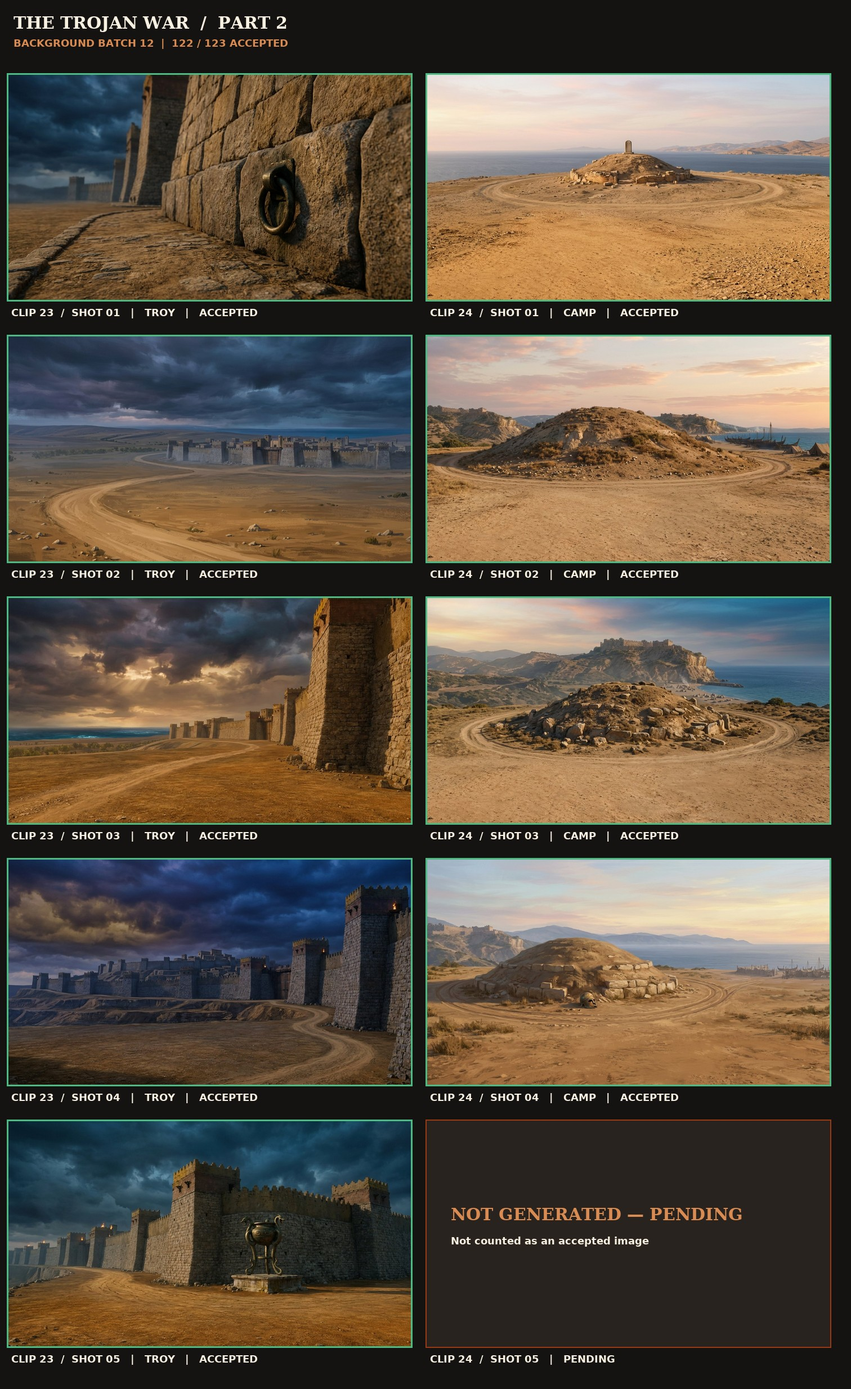
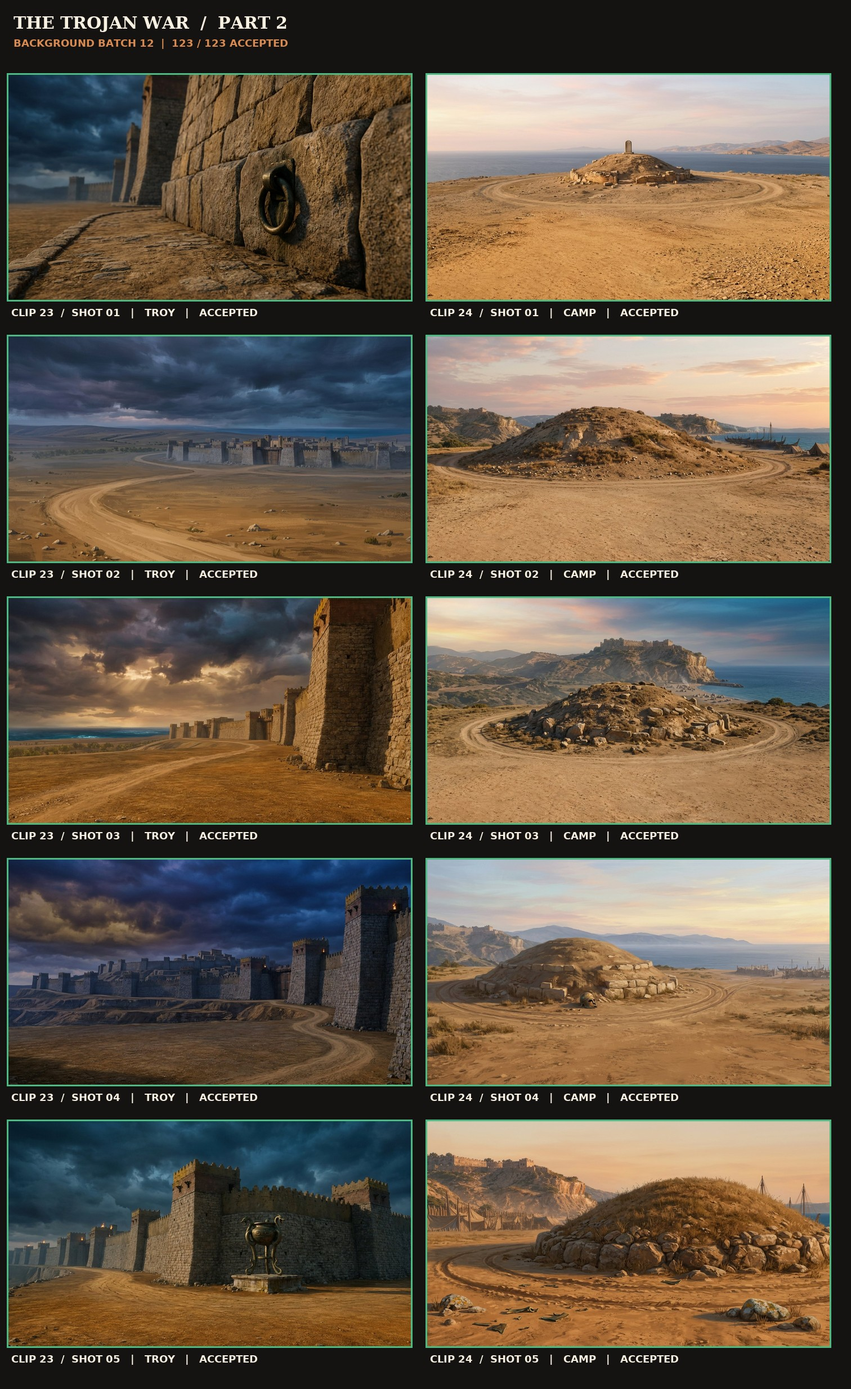
Accept final Part 2 plate; backgrounds complete at 123/123
Generate and label-verify p2_clip_24_bg_05 (clip 24 detail, loc_camp):
1376x768, SHA-256 0214f6f4...c356ba90. Reviewed against filename-banner
copies after a review-round image mispairing; foreground debris at 3x
shows abstract weathered scraps with no letterforms, kerb plain,
horizon clear of figures. Closes batch 12 at 10/10 (0 rerolls) and the
part at 123/123 accepted, 0 pending.

Ledgers updated: background_manifest.json, scenes.json,
next_background.json, batch 12 QC + contact sheet, STATUS.md.
Locked script, VO and Part 1 untouched; validation passes.

Changed region(s): [[0.4974, 0.7797, 0.9947, 0.998]]

diff --git a/production/STATUS.md b/production/STATUS.md
@@ -4,11 +4,11 @@
 **Recovered checkpoint:** `origin/arena/01a10c5e-yt-2` at `49a06bf` (2026-10-05), fast-forward recovered onto this session branch; earlier recoveries: `origin/arena/01a1032c-yt-2` at `774100f` (2026-10-04). Accepted assets and recorded approvals are reused, not regenerated.
 **Locked script source:** `production/script_approved.txt` remains byte-identical to the supplied script; the separate retention draft is not the VO source. By explicit user approval, three non-graphic wording substitutions are permitted for Part 2 Chapter 7 narrator audio only; they are documented in `production/part2/chapter7_vo_override.json` and do not alter the locked source file.
 **Part 1 status:** Complete — 125/125 accepted plates, all 25 clips assembled, rendered, and QC-passed. The full export and QC reports are saved under `production/part1/`; the approved preview is unchanged.
-**Part 2 status:** VO and motion plan complete (24 measured clips / 123 unique plate slots). The five new character sheets were approved by the user with “continue” on 2026-10-05; all five static cutouts and face anchors pass visual QC. **Background batch 12 is 9/10 complete: 122/123 plates accepted, 1 pending** — clips 01–23 fully covered, clip 24 at 4/5; only `p2_clip_24_bg_05` remains (the turn hit the platform 10-image-per-turn limit). Batches 05, 07 and 08 each included one corrective reroll; batches 09–12 needed none. Per the user's direction on 2026-10-05, generation runs at a strict 10-image-per-batch cadence: a batch is generated, reviewed, recorded and pushed, then work pauses with a “continue” request before the next batch.
+**Part 2 status:** VO and motion plan complete (24 measured clips / 123 unique plate slots). The five new character sheets were approved by the user with “continue” on 2026-10-05; all five static cutouts and face anchors pass visual QC. **Background batch 12 is COMPLETE: 123/123 plates accepted, 0 pending — all 24 clips fully covered** (`p2_clip_16` 8/8, all others 5/5); the final plate `p2_clip_24_bg_05` was generated, label-verified and accepted on 2026-10-05. Batches 05, 07 and 08 each included one corrective reroll; batches 09–12 needed none. Per the user's direction on 2026-10-05, generation runs at a strict 10-image-per-batch cadence: a batch is generated, reviewed, recorded and pushed, then work pauses with a “continue” request before the next batch. All backgrounds are now accepted; the part moves to the Step 7 work order: music stem → assemble + animate + render → motion QC → part QC checklist.
 ## Current session — 2026-10-05
-- **Background batch 12 (partial): 9 of the final 10 plates generated, individually viewed and accepted; 1 plate outstanding.** Clip 23 (the broad circuit outside Troy's gates, stormy dusk, `loc_troy`) is complete 5/5; clip 24 (the quiet memorial mound near the Greek camp at dawn, `loc_camp`) is 4/5. All nine plates are 1376×768, decode cleanly, and carry no people, bodies, text, logos, watermarks or modern objects. The platform's 10-image-per-turn limit stopped the batch one plate short: **`p2_clip_24_bg_05` (detail) is the only pending plate in all 123** — its prompt is pre-loaded in `production/part2/next_background.json`.
[1 lines of base64/hex data omitted]
 - **Review-integrity note:** the session's image-return channel mispaired some reads during the first review round, which produced one wrong rejection (`p2_clip_24_bg_01`, a correct dawn-mound establishing shot). All plates were re-verified against copies with their filename burned in as a banner, plus sky-band color signatures per file; the rejection was reversed and both `background_manifest.json` and `scenes.json` now record the corrected, label-verified verdicts. Stele (24/01) verified blank at zoom; helmet (24/04) verified plain; krater (23/05) verified as abstract spiral/band ornament at full-frame magnification.
-- Batch 12 records: `production/part2/backgrounds_batch_12_contact.jpg` (pending slot labelled) and `backgrounds_batch_12_QC.md`. Totals now **122/123 accepted, 1 pending**. After the final plate: part music stem → assemble + animate + render → motion QC → part QC checklist.
+- Batch 12 records: `production/part2/backgrounds_batch_12_contact.jpg` (all ten slots labelled) and `backgrounds_batch_12_QC.md`. Totals now **123/123 accepted, 0 pending — backgrounds complete**. Next: the Step 7 work order — part music stem → assemble + animate + render → motion QC → part QC checklist.
 - Added a separate complete-Part-1 renderer at `tools/render_part1.py` (all 25 clips, animated 2.5-second opening title and Part II tease). It writes `production/part1/part1_full.mp4` and does not overwrite the approved clip 01 + 05 preview.
 - Added exact per-clip VO sample trimming/padding against the locked timeline, frame-rounding audio tail compensation, a bounded background cache, and a music fade on the teaser card. Approved script text and VO segment records remain untouched.
 - Added full-export QC tooling at `tools/qc_part1.py` and refreshed setup/assembly notes. FFmpeg 7.0.2 and FFprobe 4.0.2 are available locally in the ignored `.venv`.
@@ -17,7 +17,7 @@
 - Locked script, VO segments, accepted assets and approved preview were preserved. Part 1 is delivered; Step 7–8 remains open for Parts 2–4 and the master MP4.
 - Part 2 narrator batch: after exact-text synthesis was blocked, the user approved three non-graphic Chapter 7 narrator-only substitutions; the locked source script remains unchanged. The missing raw narration was generated with selected voice `voice-00`: 222 words, 88.23s decoded, 151 WPM. Raw-audio QC/hash metadata: `production/part2/p2_narr_c7_manifest.json`; override: `production/part2/chapter7_vo_override.json`.
 - Part 2 per-clip VO is complete: 24 clips, 776 words, 364.60s (6.08 min), 127.7 WPM average. All 8 raw batches map to the source lines, the approved VO override is applied, pace gates pass, and audio QC manifests are in `production/part2/part2_vo_manifest.json` and `part2_vo_qc_report.txt`/`.json`.
-- Part 2 motion plan is complete and appended to `production/scenes.json` without changing the approved Part 1 plan. `production/part2/background_manifest.json` records 123 unique plates: 70 accepted and 53 pending. Twenty-three clips use five shots; `p2_clip_16` (23.678s / 50 words) uses eight (~2.96s per shot) for Preset A density. New dialogue/supporting character assignments, timed events, labels/callouts, camera moves, and text-free HYBRID prompts are included. See `production/part2/part2_scene_plan_notes.md`.
+- Part 2 motion plan is complete and appended to `production/scenes.json` without changing the approved Part 1 plan. `production/part2/background_manifest.json` records 123 unique plates: **123 accepted, 0 pending (all thirteen batches complete)**. Twenty-three clips use five shots; `p2_clip_16` (23.678s / 50 words) uses eight (~2.96s per shot) for Preset A density. New dialogue/supporting character assignments, timed events, labels/callouts, camera moves, and text-free HYBRID prompts are included. See `production/part2/part2_scene_plan_notes.md`.
 - Step 3 character-sheet gate cleared: the user approved all five new static designs (“continue”, 2026-10-05): Protesilaus, Philoctetes, Chryses, Patroclus, and Andromache holding Astyanax. Transparent cutouts are saved as `production/assets/rigs/cutout_{protesilaus,philoctetes,chryses,patroclus,andromache_astyanax}.png`; face anchors were appended to `char_anchors.json`, and speaker mappings were added to `tools/assemble.py`. Matte/anchor review: `production/part2/character_sheets/part2_cutout_calibration.jpg`; processor and hashes are recorded in the character-sheet manifest.
 - Background batch 01: 10/10 plates for clips 01–02 individually viewed and accepted (0 rerolls); see `production/part2/backgrounds_batch_01_contact.jpg` and `backgrounds_batch_01_QC.md`.
 - Background batch 02: 10/10 plates for clips 03–04 individually viewed and accepted (0 rerolls); see `production/part2/backgrounds_batch_02_contact.jpg` and `backgrounds_batch_02_QC.md`.
@@ -81,7 +81,7 @@
     - `odysseus`: IoU = **0.85** (`PASS >= 0.80`)
     - `agamemnon`: IoU = **0.91** (`PASS >= 0.80`)
     - `hector`: IoU = **0.87** (`PASS >= 0.80`)
-  - **Per-Scene Plan (`production/scenes.json`):** Part 1 remains 25 clips / 125 accepted shot entries; Part 2 has 24 clips / 123 planned plates (113 accepted, 10 pending; `p2_clip_16` uses eight for its longer 23.678s VO clip). Step 3 is cleared and all new static cutouts/face anchors are QC-passed.
+  - **Per-Scene Plan (`production/scenes.json`):** Part 1 remains 25 clips / 125 accepted shot entries; Part 2 has 24 clips / 123 planned plates (**123 accepted, 0 pending — all backgrounds complete**; `p2_clip_16` uses eight for its longer 23.678s VO clip). Step 3 is cleared and all new static cutouts/face anchors are QC-passed.
   - **First Assembled Animated Scene Preview (`production/part1/scene_01_preview.mp4`):**
     - Duration: `38.13s` @ 24 fps · Mean frame diff: `5.395` · Max frozen stretch: `0.00s` (`PASS <= 2.00s`).
     - Motion report: `production/part1/scene_01_motion_report.txt` · Spot frames: `production/part1/scene_01_spot_frames.jpg`.

diff --git a/production/part2/backgrounds_batch_12_QC.md b/production/part2/backgrounds_batch_12_QC.md
@@ -1,9 +1,9 @@
-# Part 2 Background Batch 12 — QC (9 of 10 accepted; final plate pending)
+# Part 2 Background Batch 12 — QC (COMPLETE: 10 of 10 accepted)
 
 **Scope:** clips 23–24 · the broad circuit outside Troy's high gates (the chase) and the quiet memorial mound near the Greek camp at dawn · the **final Part 2 plate batch (10 planned plates)**.
 **Checks:** approved `loc_troy` / `loc_camp` references and HYBRID look; varied shot compositions matching each planned shot type; **no people, faces, silhouettes, bodies, readable text, logos, watermarks or modern objects**; clear character staging and open lower-third ground; full image decode and accepted 16:9 tolerance; dimensions and SHA-256 recorded in `background_manifest.json` and `scenes.json`.
-**Review method note:** the platform's image-return channel mispaired some image reads during the first review round. Every plate was therefore re-verified against a copy with its **filename burned into a red banner**, and content class was cross-checked against sky-band color signatures (stormy-blue for the clip 23 Troy plates, pale-dawn for the clip 24 mound plates). One initial rejection (`p2_clip_24_bg_01`) was an artifact of a mispaired return and was reversed after label verification. Key ornaments were checked in delivered zoom views where the channel allowed (stele: blank; helmet: plain; krater: abstract spiral/band relief at full-frame magnification).
-**Result this turn:** **9/9 generated plates accepted · 1 plate not yet generated** (platform 10-image-per-turn limit). Part 2 total: **122/123 accepted, 1 pending.** Clip 23 complete (5/5); clip 24 at 4/5. No script, VO or measured scene timing was changed.
+**Review method note:** the platform's image-return channel mispaired some image reads during the first review round (and again in the final-plate round). Every plate was therefore re-verified against a copy with its **filename burned into a red banner**, and content class was cross-checked against sky-band color signatures (stormy-blue for the clip 23 Troy plates, pale-dawn for the clip 24 mound plates). One initial rejection (`p2_clip_24_bg_01`) was an artifact of a mispaired return and was reversed after label verification. Key ornaments were checked in delivered zoom views where the channel allowed (stele: blank; helmet: plain; krater: abstract spiral/band relief at full-frame magnification).
+**Result:** **10/10 generated plates accepted · 0 rerolls in this batch.** The final plate was generated and accepted on 2026-10-05 after the prior turn hit the platform 10-image-per-turn limit at 9/10. Part 2 total: **123/123 accepted, 0 pending.** Clips 23 and 24 both complete (5/5). No script, VO or measured scene timing was changed.
 
 | Clip / shot | Setting / view | Dimensions | QC result |
 |---|---|---:|---|
@@ -16,10 +16,10 @@
 | `p2_clip_24` / 02 | Memorial mound / dawn establishing | 1376×768 | PASS — mound with the unmarked chariot track circling its base, beached ships and camp tents at right, citadel on the cliff beyond under pink dawn light; open sand staging. No people, no bodies, no text. |
 | `p2_clip_24` / 03 | Memorial mound / oblique dawn wide | 1376×768 | PASS — mound ringed by the chariot track with its stone kerb, layered terrain, beached fleet and camp at right, citadel headlands in morning haze; clear empty foreground. No people, no bodies, no text. |
 | `p2_clip_24` / 04 | Memorial mound / medium with prop | 1376×768 | PASS — mound's stone kerb with a single symbolic prop, an empty bronze helmet at the base as a memorial offering, chariot ruts circling, fleet and citadel beyond in dawn light. Helmet inspected: plain bronze with patina and structural cheek/eye opening only — no glyph or lettering. No people, no bodies, no text. |
-| `p2_clip_24` / 05 | Memorial mound / ground-level detail | — | **NOT GENERATED** — the platform's 10-image-per-turn limit was reached this turn. Awaiting generation; exact prompt pre-loaded in `production/part2/next_background.json`. |
+| `p2_clip_24` / 05 | Memorial mound / ground-level detail | 1376×768 | **PASS (accepted 2026-10-05, final Part 2 plate)** — ground-level detail of the mound's stone kerb with the unmarked chariot track curving through the sand under softer evening light in the planned reverse-axis framing; camp tents and citadel headland at left, beached ship masts at right. Filename-banner verified after a review-round mispairing; foreground dark fragments inspected at 3×: abstract curved weathered scraps with no letterforms; kerb boulders inspected: plain and uncarved; mast/horizon area clear of figures. No people, no bodies, no text, no modern objects. SHA-256 `0214f6f4…c356ba90`. |
 
 **No-body / no-gore note:** clip 24 covers Achilles's memorial; every mound plate keeps the scene empty of any corpse — the aftermath reads through the circling chariot track, kerb stones and the single empty helmet only.
 
-**Held for batch completion:** generate `production/part2/backgrounds/p2_clip_24_bg_05.jpg` (detail, ground-level, `loc_camp` reference), view it, then record acceptance. After 122→123/123: part music stem, assemble + animate + render, motion QC, part QC checklist.
+**Batch complete:** all ten plates generated, individually viewed (label-verified) and accepted; `production/part2/backgrounds/p2_clip_24_bg_05.jpg` closes the set at **123/123**. Next: the Step 7 work order — part music stem, assemble + animate + render, motion QC, part QC checklist.
 
-Review contact sheet: `production/part2/backgrounds_batch_12_contact.jpg` (the pending slot is explicitly labelled and is not counted as accepted).
+Review contact sheet: `production/part2/backgrounds_batch_12_contact.jpg` (all ten slots labelled, 123/123 accepted).
